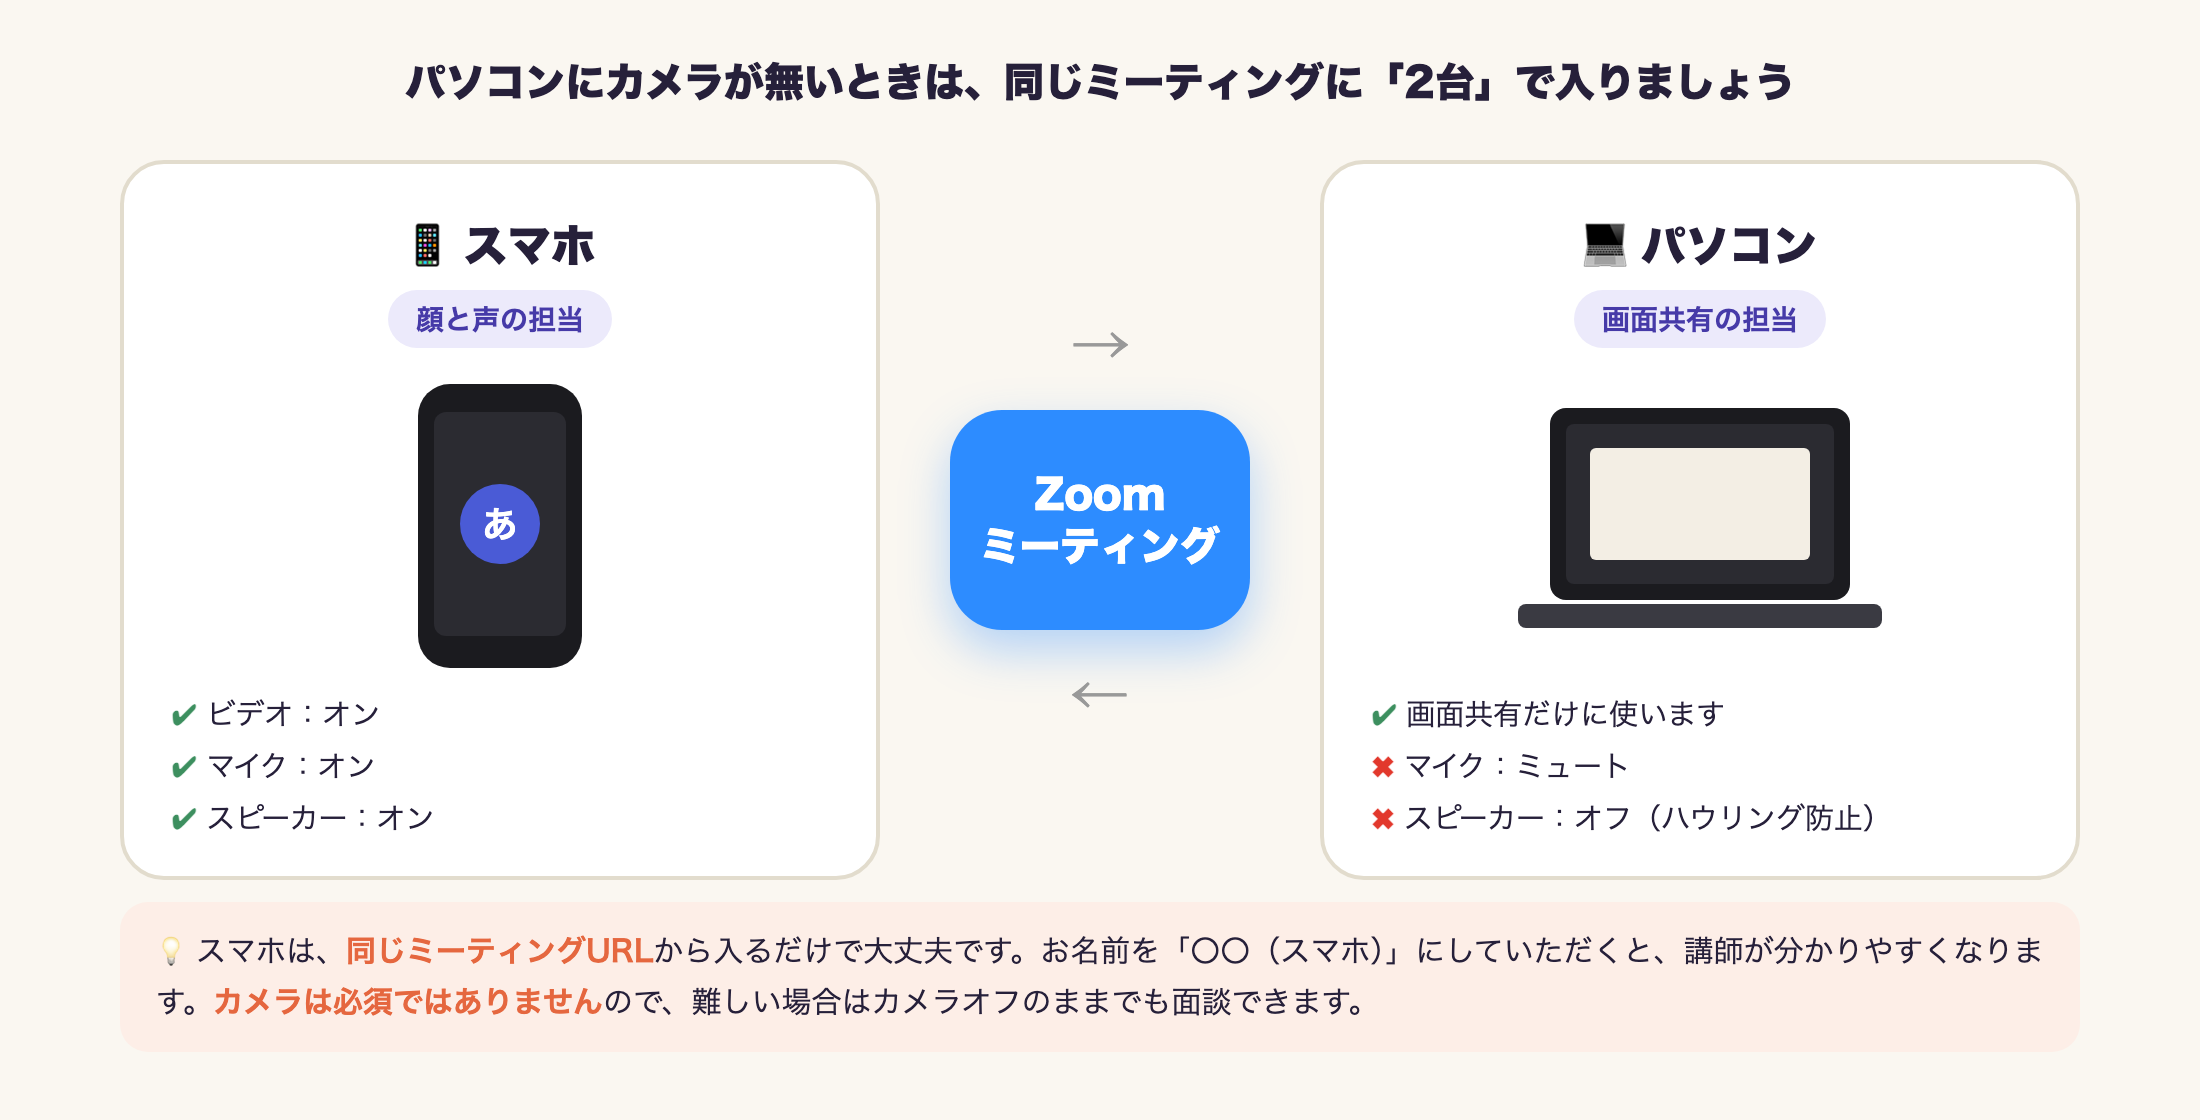
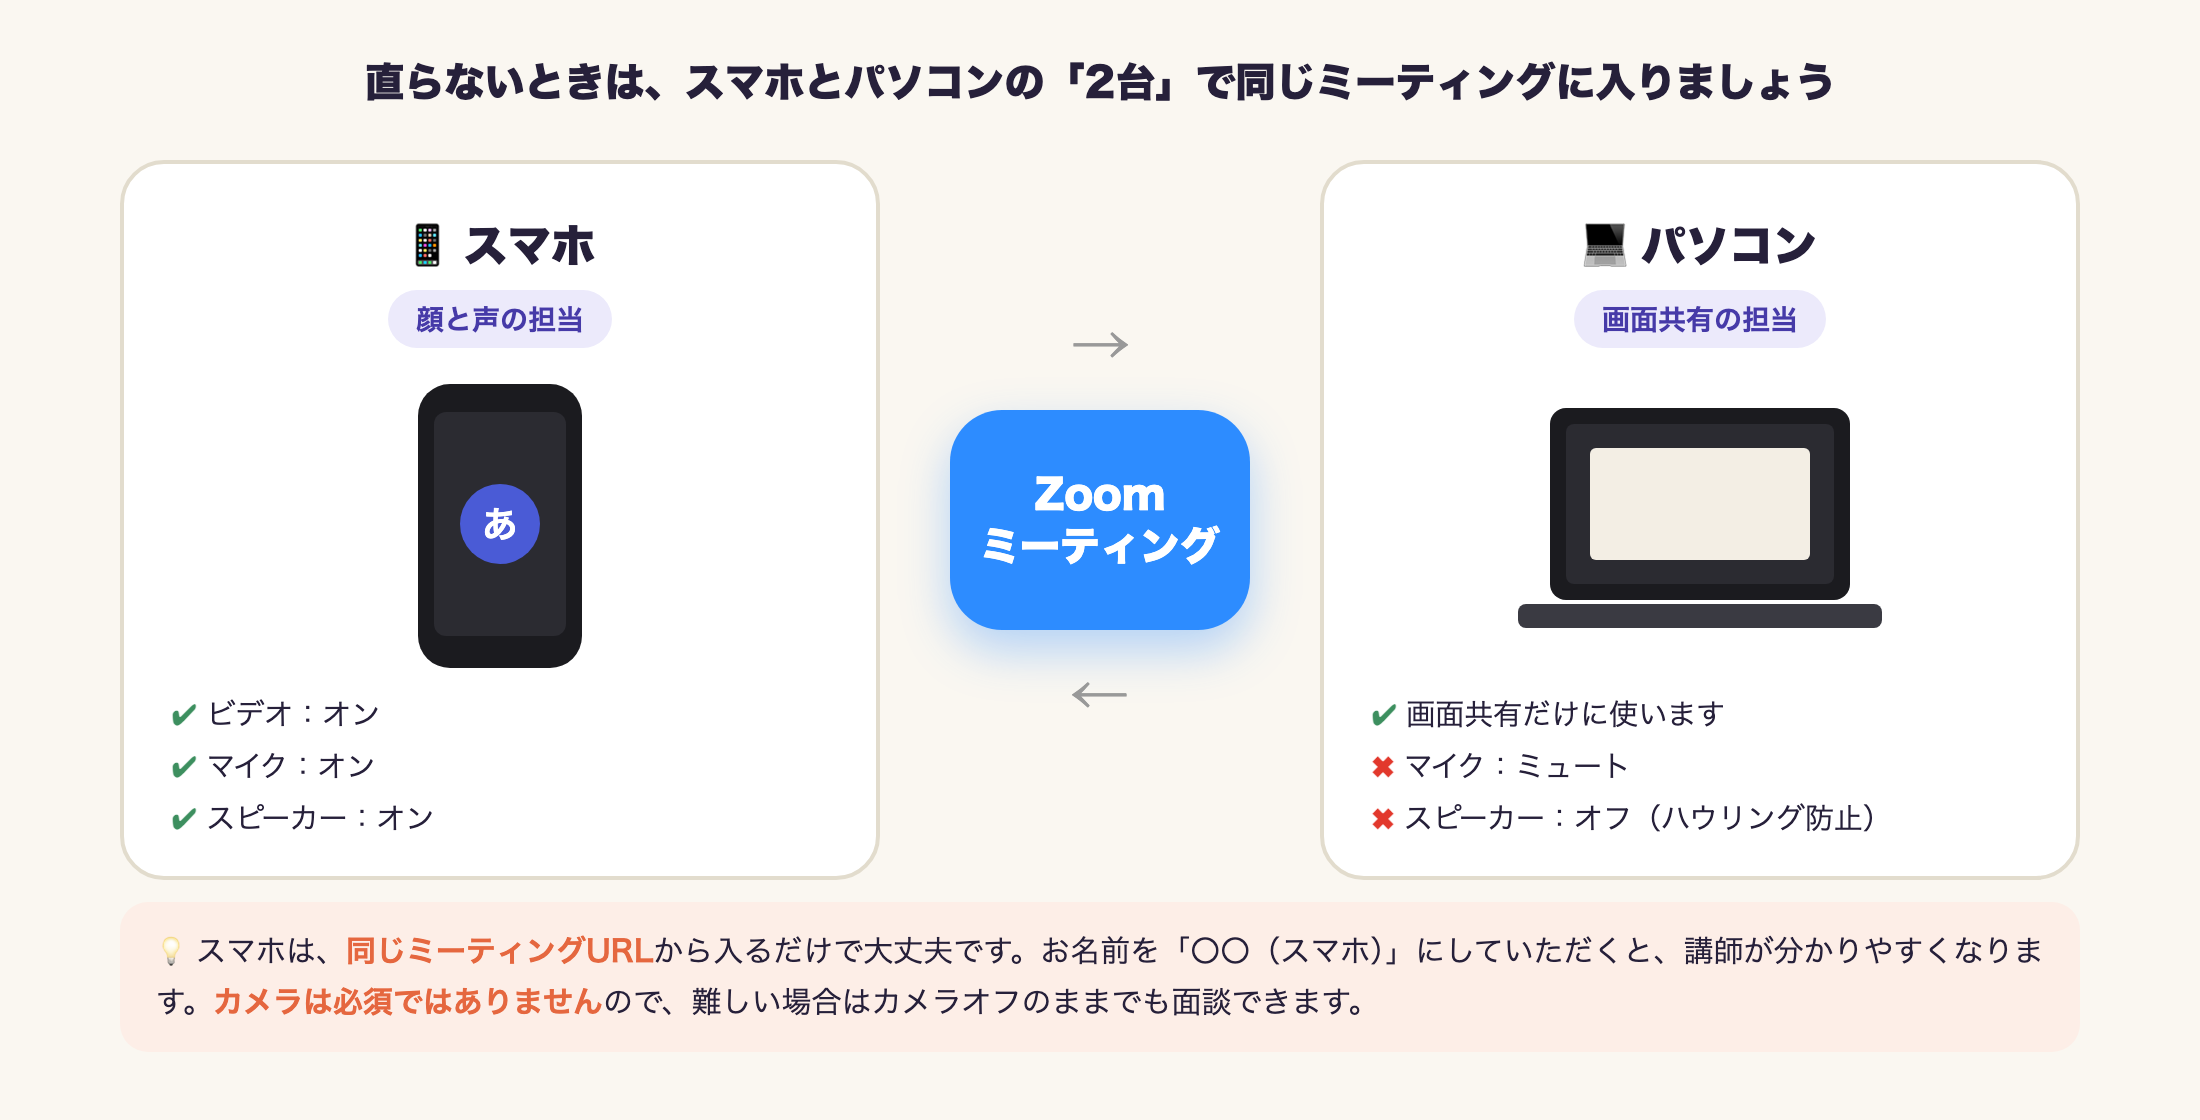
zoom-camera: say RISE講師, present the two-device option as the fallback when nothing fixes the camera

Changed region(s): [[0.1545, 0.0312, 0.8345, 0.0938]]

diff --git a/zoom-camera/index.html b/zoom-camera/index.html
@@ -86,14 +86,14 @@
 <header class="topbar"><div class="topbar-in">
   <a class="logo" href="#top">RISE <span>サポート</span></a>
   <nav class="topnav">
-    <a href="#first">まずはこちら</a><a href="#byos">機器別の設定</a><a href="#nocam">カメラが無い方</a><a href="#share">画面共有</a><a href="#teacher">講師の方へ</a>
+    <a href="#first">まずはこちら</a><a href="#byos">機器別の設定</a><a href="#nocam">2台で入る方法</a><a href="#share">画面共有</a><a href="#teacher">講師の方へ</a>
   </nav>
 </div></header>
 
 <div class="hero" id="top">
   <span class="badge">ZOOM 面談サポート</span>
   <h1>Zoomで<span class="hl">カメラが映らない</span>ときの直し方</h1>
-  <p class="lead">面談中に講師からこのページが届いた方は、<strong>上から順番に</strong>お試しください。ほとんどの場合、「①」と「②」で直ります。もし直らなくても、<strong>カメラをオフにしたまま面談はできます</strong>ので、ご安心ください。</p>
+  <p class="lead">RISE講師からこのページが届いた方は、<strong>上から順番に</strong>お試しください。ほとんどの場合、「①」と「②」で直ります。もし直らなくても、<strong><a href="#nocam">スマホとパソコンの2台でZoomに参加する方法</a></strong>（スマホで音声とビデオ、パソコンで画面共有）や、<strong>カメラをオフにしたまま面談する方法</strong>もありますので、ご安心ください。</p>
   <div class="meta"><span class="chip accent">Windows</span><span class="chip accent">Mac</span><span class="chip accent">iPhone</span><span class="chip accent">Android</span><span class="chip">所要時間 3〜5分</span></div>
 </div>
 
@@ -110,7 +110,7 @@
     </ol>
     <figure><a href="figs/zoom-toolbar-desktop.png" target="_blank" rel="noopener"><img src="figs/zoom-toolbar-desktop.png" width="1200" height="720" alt="Zoomのツールバー（パソコン）。ビデオの開始ボタンと、^から出るカメラ選択メニュー" loading="lazy"></a><figcaption>パソコンの場合：画面の下にあります。「ビデオの開始」の赤い斜線を消す／「^」でカメラを選ぶ</figcaption></figure>
     <figure><a href="figs/zoom-mobile-toolbar.png" target="_blank" rel="noopener"><img src="figs/zoom-mobile-toolbar.png" width="760" height="840" alt="Zoomスマホアプリの会議画面。下のビデオの開始ボタン" loading="lazy"></a><figcaption>スマホの場合：画面を1回タップするとボタンが表示されます。「ビデオの開始」を押してください</figcaption></figure>
-    <div class="ok"><b>ここで直った方は、これで完了です！</b> 直らなかった方は、下の「②」でお使いの機器を選んでください。</div>
+    <div class="ok"><b>ここで直った方は、これで完了です！</b> 直らなかった方は、下の「②」でお使いの機器を選んでください。それでも直らない場合は、「③」の<a href="#nocam">スマホとパソコンの2台で入る方法</a>をお試しください。</div>
   </div>
 </section>
 
@@ -188,9 +188,9 @@
 
 <!-- ③ -->
 <section id="nocam">
-  <div class="sec-head"><div class="step-num">03</div><h2>パソコンにカメラが無い場合は、スマホと2台で入りましょう</h2></div>
+  <div class="sec-head"><div class="step-num">03</div><h2>直らないときは、スマホとパソコンの2台で入りましょう</h2></div>
   <div class="card">
-    <p>デスクトップパソコンや古いノートパソコンには、そもそもカメラが付いていないことがあります。その場合は<strong>カメラを買わなくても大丈夫です</strong>。スマホとパソコンの両方で同じミーティングに入れば、顔と画面の両方を見せられます。</p>
+    <p>設定を試しても直らない場合や、そもそもパソコンにカメラが付いていない場合は、<strong>スマホとパソコンの両方で同じミーティングに入る</strong>方法がおすすめです。<strong>スマホで音声とビデオ、パソコンで画面共有</strong>と役割を分ければ、お顔と画面の両方を見せられます。カメラを買う必要もありません。</p>
     <figure><a href="figs/two-device.png" target="_blank" rel="noopener"><img src="figs/two-device.png" width="1100" height="560" alt="スマホは顔と声、パソコンは画面共有の役割分担の図" loading="lazy"></a><figcaption>スマホ＝顔と声／パソコン＝画面共有</figcaption></figure>
     <ol class="steps">
       <li><span class="num">1</span><div>いつも通り、<strong>パソコンでZoomに入ってください</strong>。</div></li>
@@ -227,7 +227,7 @@
       <li><strong>「画面の下のビデオのボタンに、赤い斜線は付いていますか？」</strong> → 付いていれば、押していただきます（①）</li>
       <li>パソコンの方には <strong>「ビデオボタンの横の「^」を押すと、カメラの名前は出ますか？」</strong> → 出ない＝パソコンがカメラを認識していません（②へ）／出る＝別のカメラを選んでいただきます</li>
       <li>機種別のページをお送りして、一緒に設定を確認します（下の文面をお使いください）</li>
-      <li>5分で直らない場合は、<strong>カメラオフのまま面談を進めてください</strong>（パソコンにカメラが無い方には、③の2台方式を次回までにご案内ください）</li>
+      <li>5分で直らない場合は、<strong>③の2台方式</strong>（スマホで音声とビデオ、パソコンで画面共有）をご案内するか、<strong>カメラオフのまま面談を進めてください</strong>。スマホが手元にあれば、その場で2台方式に切り替えられます</li>
     </ol>
     <div class="note"><b>前回スマホで参加されていた方</b>は、パソコンにカメラが無い可能性が高いです。「前回はスマホからでしたよね？」と伺うと早く切り分けられます。</div>
   </div>
@@ -237,7 +237,7 @@
 https://ryoya9595.github.io/rise-guide/zoom-camera/
 
 上から順番に試してみてください！
-直らなくても、カメラオフのまま面談はできますので大丈夫ですよ🙆♀</div>
+直らなくても、スマホとパソコンの2台で入る方法（スマホで音声とビデオ・パソコンで画面共有）や、カメラオフのままでも面談できますので大丈夫ですよ🙆♀</div>
     <button class="btn" data-copy="msg1">この文面をコピー</button>
     <p style="margin-top:14px"><strong>機種が分かっている場合</strong>は、URLの後ろに次の文字を付けると、その機種のタブが開いた状態で届きます。</p>
     <ul>

diff --git a/zoom-camera/figs/two-device.html b/zoom-camera/figs/two-device.html
@@ -21,7 +21,7 @@
 </style></head>
 <body data-size="1100x560">
 <div class="stage">
-  <div class="title">パソコンにカメラが無いときは、同じミーティングに「2台」で入りましょう</div>
+  <div class="title">直らないときは、スマホとパソコンの「2台」で同じミーティングに入りましょう</div>
   <div class="box l">
     <h3>📱 スマホ</h3><div class="role">顔と声の担当</div>
     <div class="dev"><svg width="90" height="150" viewBox="0 0 90 150"><rect x="4" y="4" width="82" height="142" rx="16" fill="#1b1b1f"/><rect x="12" y="18" width="66" height="112" rx="6" fill="#2b2b31"/><circle cx="45" cy="74" r="20" fill="#4a5bd6"/><text x="45" y="81" text-anchor="middle" fill="#fff" font-size="18" font-weight="700">あ</text></svg></div>
